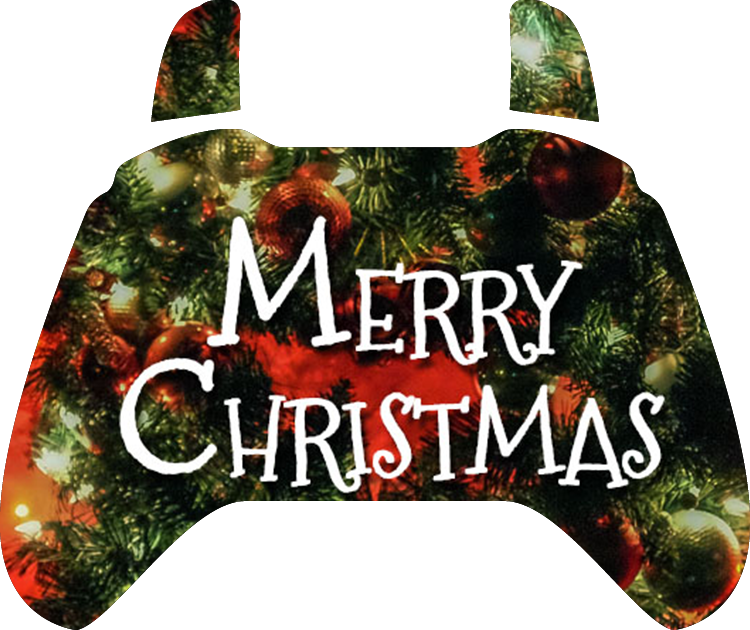
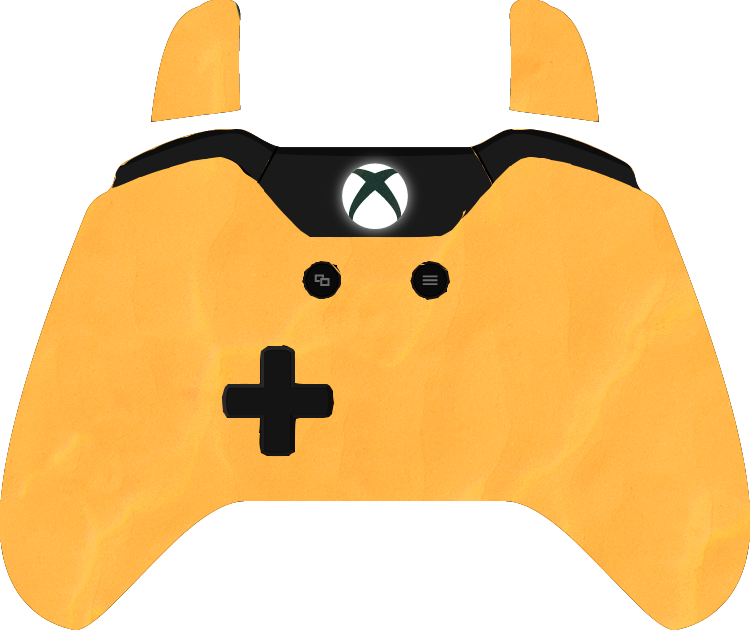
Add files via upload

diff --git a/kontimod/final.css b/kontimod/final.css
@@ -1,0 +1,77 @@
+/*BEGIN Xbox One Controller Styling*/
+.controller.xbox {
+    background: url(basemod.png);
+    height: 630px;
+    width: 750px;
+    /*    margin-left: -375px;
+        margin-top: -285px;*/
+}
+
+.xbox .button {
+    position: absolute;
+    background: url(abxymod.png);
+    width: 48px;
+    height: 48px;
+}
+
+.xbox .button.pressed {
+    background-position-y: -48px;
+    margin-top: 5px;
+    opacity: 1;
+}
+
+.xbox .a {
+    background-position: 0 0;
+    top: 108px;
+    left: 55px;
+}
+
+.xbox .b {
+    background-position: -49px 0;
+    top: 58px;
+    right: 0px;
+}
+
+.xbox .x {
+    background-position: -98px 0;
+    top: 58px;
+    left: 4px;
+}
+
+.xbox .y {
+    background-position: 48px 0;
+    left: 55px;
+    top: 7px;
+}
+
+.xbox .sticks {
+    position: absolute;
+    width: 371px;
+    height: 196px;
+    top: 239px;
+    left: 144px;
+}
+
+.xbox .stick {
+    position: absolute;
+    background: url(stickmod.png);
+    background-position: -85px 0;
+    height: 83px;
+    width: 83px;
+}
+
+.xbox .stick.pressed {
+    background-position: 0 0;
+}
+
+.xbox .stick.left {
+    top: 0;
+    left: 0;
+}
+
+.xbox .stick.right {
+    top: 113px;
+    left: 288px;
+}
+
+/*END Xbox One Controller Styling*/
